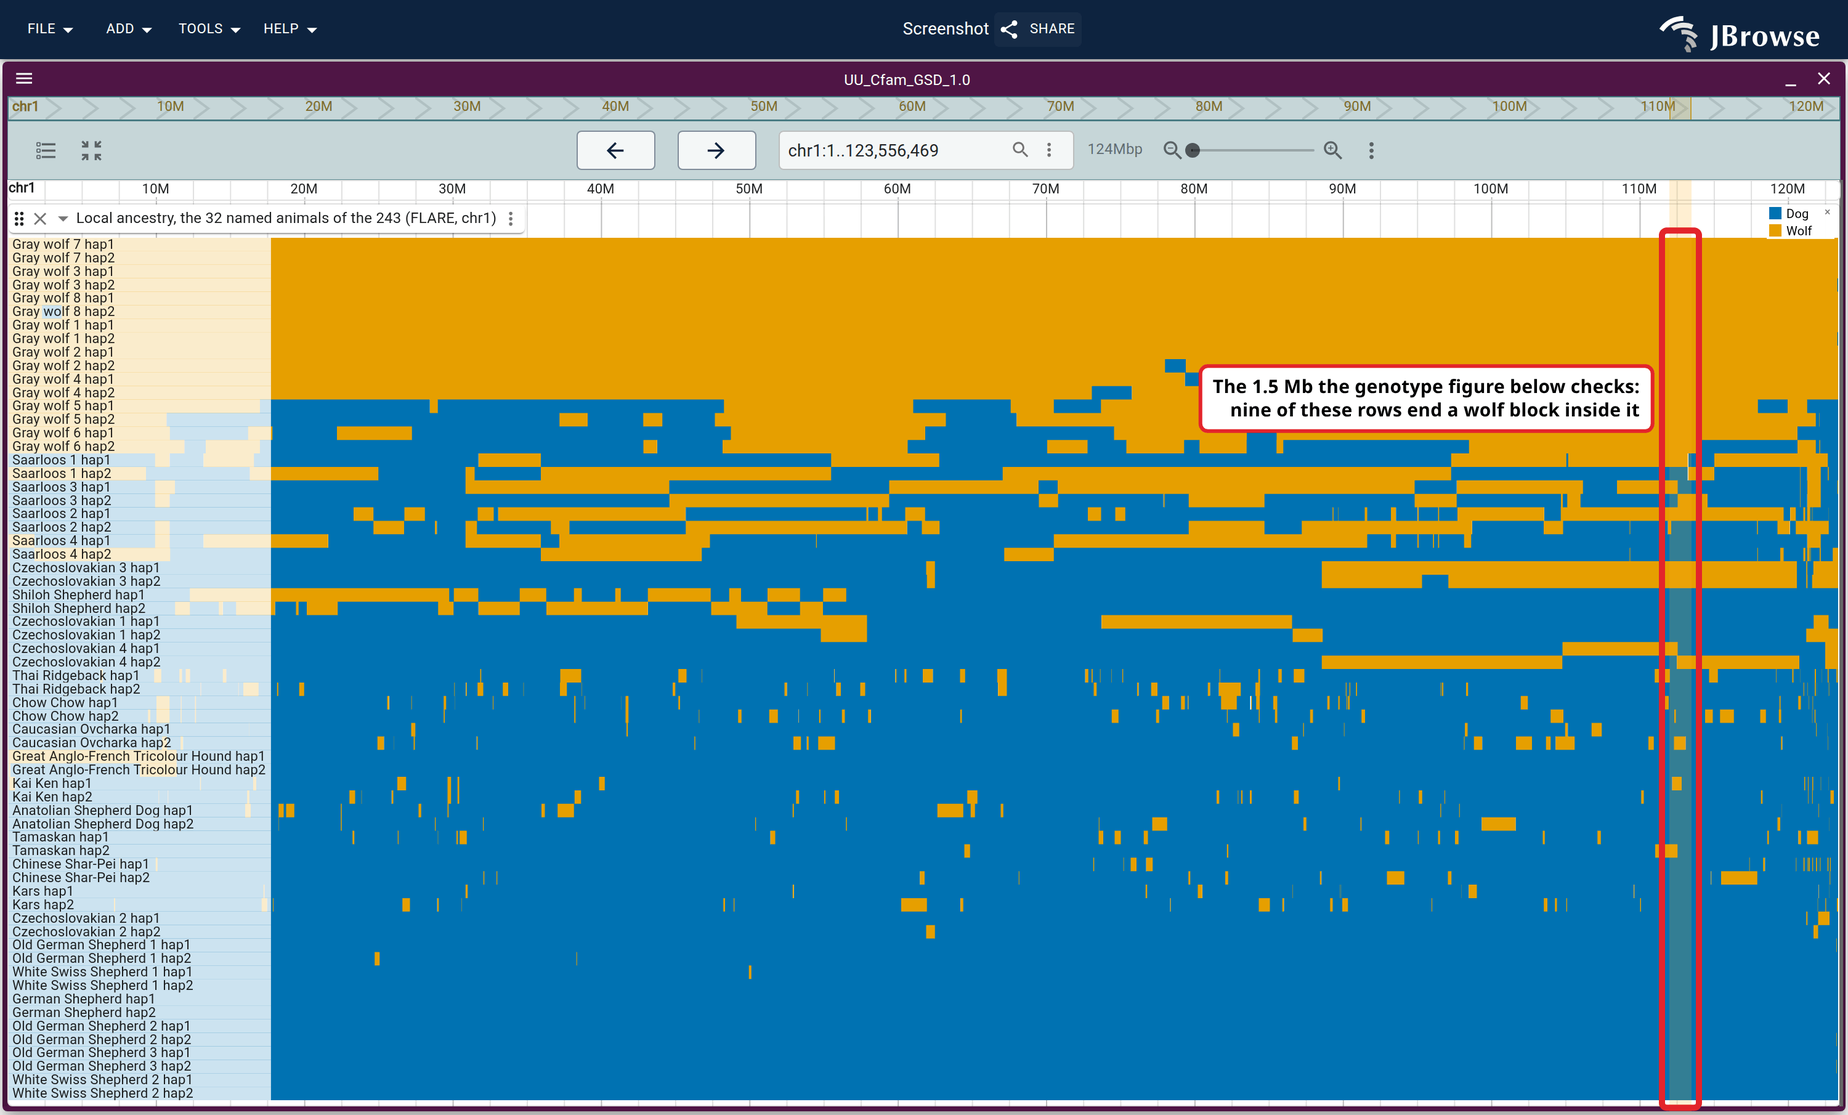
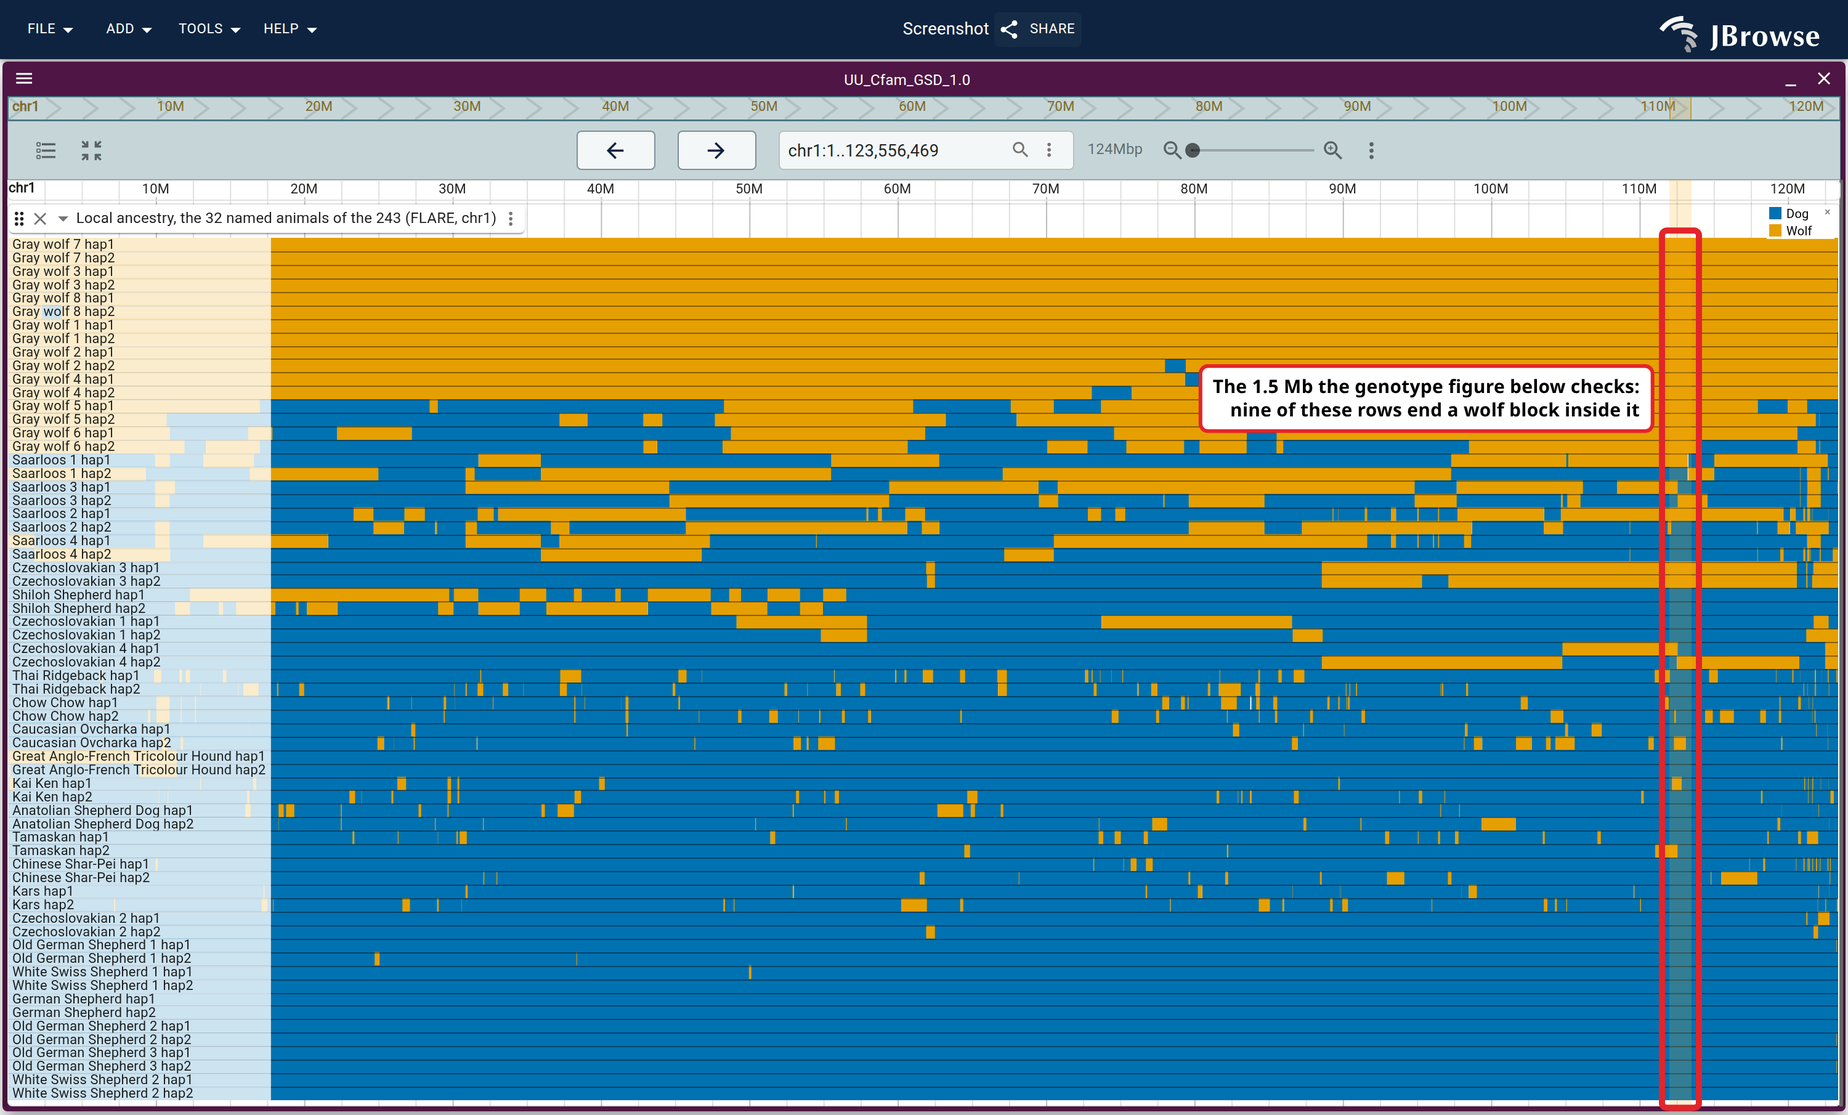
feat(multirow): add a showRowSeparators slot, and set it on the wolfdog painting
Review on dog10k-wolfdog-ancestry: "may benefit from showing row separators".
The reason the lines help there is general rather than particular to that
figure, so this is a display setting: rows are haplotypes, two per animal, and
most of that painting is one solid dog color running edge to edge -- so without
a boundary neither the row count nor which pair of rows belongs to which
sidebar name can be read off the image. A painting whose neighbouring rows
differ in color separates itself, which is why the slot is off by default.

Drawn as a theme-divider hairline on each row boundary, Math.round(y)+0.5 so
the 1px stroke lands on a device pixel instead of anti-aliasing across the two
rows it divides. MultiRowSeparatorLines is shared by the live display and the
SVG export so the two cannot drift, and both draw it before the tree sidebar,
whose opaque panel then covers the lines rather than the reverse. Modeled on
the multi-wiggle's MultiWiggleOverlayLines, which had the only implementation
of this in the repo.

Gated at MIN_SEPARATOR_ROW_PX (4px), in rowBand.ts next to MIN_DRAWN_ROW_PX for
the same reason that constant exists: rows are allowed below a pixel, and there
a 1px line is as thick as the row it borders, so the grid would become the
figure. The 486-row clustered figure at ~2.3px a row deliberately does not set
the slot. The track menu item stays clickable below the threshold -- taller
rows make the lines appear -- but carries a "Needs rows 4px or taller"
[…]

diff --git a/plugins/canvas/src/LinearMultiRowFeatureDisplay/components/MultiRowSeparatorLines.tsx b/plugins/canvas/src/LinearMultiRowFeatureDisplay/components/MultiRowSeparatorLines.tsx
@@ -1,0 +1,51 @@
+import { usePalette } from '@jbrowse/core/ui/PaletteContext'
+import { alpha } from '@jbrowse/core/ui/palette'
+import { getStrokeProps } from '@jbrowse/core/util'
+
+import { MIN_SEPARATOR_ROW_PX } from '../rendering/rowBand.ts'
+
+// Hairlines on the row boundaries, shared by the live display and the SVG
+// export so the two can't drift. Both callers render this inside an <svg>, so it
+// emits bare <line> fragments and takes the width to span explicitly (CSS-pixel
+// track width on screen vs view width on export). Modeled on the multi-wiggle's
+// MultiWiggleOverlayLines.
+export default function MultiRowSeparatorLines({
+  numRows,
+  rowHeight,
+  width,
+}: {
+  numRows: number
+  rowHeight: number
+  width: number
+}) {
+  const palette = usePalette()
+  if (numRows < 2 || rowHeight < MIN_SEPARATOR_ROW_PX) {
+    return null
+  }
+  return (
+    <>
+      {Array.from({ length: numRows - 1 }).map((_, idx) => {
+        // +0.5 lands the 1px stroke on a device-pixel boundary so it renders
+        // crisp instead of anti-aliased across the two rows it divides.
+        const y = Math.round(rowHeight * (idx + 1)) + 0.5
+        return (
+          <line
+            // eslint-disable-next-line @eslint-react/no-array-index-key -- fixed positional list, one separator per row boundary
+            key={`sep-${idx}`}
+            x1={0}
+            y1={y}
+            x2={width}
+            y2={y}
+            // blocks here are saturated fills edge to edge (rowProportion 1),
+            // so the line is dialed further up than the wiggle's xyplot rows,
+            // which sit on paper. getStrokeProps splits the alpha onto a
+            // stroke-opacity attribute so it survives the SVG export, which
+            // strips rgba() alpha.
+            {...getStrokeProps(alpha(palette.divider, 0.4))}
+            strokeWidth={1}
+          />
+        )
+      })}
+    </>
+  )
+}

diff --git a/plugins/canvas/src/LinearMultiRowFeatureDisplay/trackMenuItems.ts b/plugins/canvas/src/LinearMultiRowFeatureDisplay/trackMenuItems.ts
@@ -12,6 +12,8 @@ import PaletteIcon from '@mui/icons-material/Palette'
 import RestartAltIcon from '@mui/icons-material/RestartAlt'
 import VisibilityIcon from '@mui/icons-material/Visibility'
 
+import { MIN_SEPARATOR_ROW_PX } from './rendering/rowBand.ts'
+
 import type { LegendEntry } from './rendering/colorLegend.ts'
 import type { MultiRowSource } from './sourcesLogic.ts'
 import type { MenuItem } from '@jbrowse/core/ui'
@@ -52,6 +54,8 @@ function rowHeightPreset(rowHeight: number) {
 interface MultiRowMenuSelf extends IStateTreeNode {
   showTree: boolean
   showLegend: boolean
+  showRowSeparators: boolean
+  effectiveRowHeight: number
   colorLegend: LegendEntry[]
   hiddenCategories: readonly string[]
   showBranchLength: boolean
@@ -65,6 +69,7 @@ interface MultiRowMenuSelf extends IStateTreeNode {
   rowHeight: number
   setShowTree: (f: boolean) => void
   setShowLegend: (f: boolean) => void
+  setShowRowSeparators: (f: boolean) => void
   toggleCategory: (label: string) => void
   setHiddenCategories: (labels: string[]) => void
   setShowBranchLength: (f: boolean) => void
@@ -93,6 +98,19 @@ function showMenuItems(self: MultiRowMenuSelf): MenuItem[] {
           }),
         ]
       : []),
+    // stays clickable below the draw threshold (the toggle is a setting, and
+    // taller rows make it appear) but says so, rather than silently doing
+    // nothing on a dense painting
+    checkboxItem(
+      'Show row separators',
+      self.showRowSeparators,
+      () => {
+        self.setShowRowSeparators(!self.showRowSeparators)
+      },
+      self.effectiveRowHeight < MIN_SEPARATOR_ROW_PX
+        ? { subLabel: `Needs rows ${MIN_SEPARATOR_ROW_PX}px or taller` }
+        : undefined,
+    ),
     treeBranchLengthMenuItem(self),
   ]
 }

diff --git a/plugins/canvas/src/LinearMultiRowFeatureDisplay/components/LinearMultiRowFeatureDisplayComponent.tsx b/plugins/canvas/src/LinearMultiRowFeatureDisplay/components/LinearMultiRowFeatureDisplayComponent.tsx
@@ -19,6 +19,7 @@ import { MultiRowRendererFactory } from '../rendering/MultiRowRendererFactory.ts
 import MultiRowColorLegend from './MultiRowColorLegend.tsx'
 import MultiRowHoverHighlight from './MultiRowHoverHighlight.tsx'
 import MultiRowIndelGlyphOverlay from './MultiRowIndelGlyphOverlay.tsx'
+import MultiRowSeparatorLines from './MultiRowSeparatorLines.tsx'
 import MultiRowTooltip from './MultiRowTooltip.tsx'
 
 import type { LinearMultiRowFeatureDisplayModel } from '../model.ts'
@@ -39,6 +40,7 @@ const MultiRowCanvas = observer(function MultiRowCanvas({
     effectiveRowHeight,
     sidebarOffset,
     showLegend,
+    showRowSeparators,
     colorLegend,
     hiddenCategorySet,
   } = model
@@ -58,6 +60,27 @@ const MultiRowCanvas = observer(function MultiRowCanvas({
         }}
       />
       <MultiRowIndelGlyphOverlay model={model} />
+      {/* inline rather than portaled through FloatingSvgOverlay: the tree
+          sidebar is a later sibling and its panel is opaque, so drawing the
+          lines here is what stops them from running across the dendrogram */}
+      {showRowSeparators ? (
+        <svg
+          style={{
+            position: 'absolute',
+            top: 0,
+            left: 0,
+            width: view.trackWidthPx,
+            height,
+            pointerEvents: 'none',
+          }}
+        >
+          <MultiRowSeparatorLines
+            numRows={sources.length}
+            rowHeight={effectiveRowHeight}
+            width={view.trackWidthPx}
+          />
+        </svg>
+      ) : null}
       <MultiRowHoverHighlight model={model} />
       {/* Also the display's doneness signal for capture gates: `sources` is
           derived from fetched features (the partition values), so this subtree

diff --git a/plugins/canvas/src/LinearMultiRowFeatureDisplay/renderSvg.test.tsx b/plugins/canvas/src/LinearMultiRowFeatureDisplay/renderSvg.test.tsx
@@ -26,6 +26,7 @@ jest.mock('@jbrowse/core/util', () => ({
   measureText: (s: string, fontSize = 10) => s.length * fontSize * 0.6,
   max: (arr: number[], d = 0) => (arr.length ? Math.max(...arr) : d),
   getFillProps: (color: string) => ({ fill: color }),
+  getStrokeProps: (color: string) => ({ stroke: color }),
 }))
 jest.mock('mobx', () => ({
   ...jest.requireActual('mobx'),
@@ -105,6 +106,7 @@ function makeModel(overrides: Partial<RenderSvgModel> = {}): RenderSvgModel {
     showTree: false,
     hierarchy: undefined,
     showLegend: false,
+    showRowSeparators: false,
     colorLegend: [],
     hiddenCategorySet: new Set<string>(),
     ...overrides,
@@ -150,6 +152,26 @@ describe('LinearMultiRowFeatureDisplay renderSvg', () => {
   it('omits the dendrogram when the tree is hidden', async () => {
     const html = renderResult(await renderSvg(makeModel(), {}))
     expect(html).not.toContain('#0008')
+  })
+
+  it('draws a separator on each row boundary when showRowSeparators is set', async () => {
+    const html = renderResult(
+      await renderSvg(makeModel({ showRowSeparators: true }), {}),
+    )
+    // two 50px rows: one line, on the boundary between them, half-pixel offset
+    // so the 1px stroke lands on a device pixel
+    expect(html).toContain('y1="50.5"')
+    expect(html.match(/<line /g)?.length).toBe(1)
+  })
+
+  it('omits separators when rows are below the drawable threshold', async () => {
+    const html = renderResult(
+      await renderSvg(
+        makeModel({ showRowSeparators: true, effectiveRowHeight: 2 }),
+        {},
+      ),
+    )
+    expect(html).not.toContain('<line ')
   })
 
   it('renders the error box instead of the body when model.error is set', async () => {

diff --git a/plugins/canvas/src/LinearMultiRowFeatureDisplay/trackMenuItems.test.ts b/plugins/canvas/src/LinearMultiRowFeatureDisplay/trackMenuItems.test.ts
@@ -15,6 +15,8 @@ function makeSelf(
   return {
     showTree: true,
     showLegend: true,
+    showRowSeparators: false,
+    effectiveRowHeight: 14,
     colorLegend: [],
     hiddenCategories: [],
     showBranchLength: true,
@@ -25,6 +27,7 @@ function makeSelf(
     rowHeight: 0,
     setShowTree: () => {},
     setShowLegend: () => {},
+    setShowRowSeparators: () => {},
     toggleCategory: () => {},
     setHiddenCategories: () => {},
     setShowBranchLength: () => {},
@@ -80,8 +83,25 @@ describe('multi-row track menu', () => {
     expect(items.every(i => 'icon' in i && i.icon)).toBe(true)
     expect(labels(subMenuOf(items, 'Show...'))).toEqual([
       'Show sidebar with tree and labels',
+      'Show row separators',
       'Tree branch lengths',
     ])
+  })
+
+  // the toggle stays clickable when rows are too thin to draw a separator on
+  // (taller rows make it appear), so the row height is the only thing that says
+  // why nothing happened
+  it('explains the row separator toggle when rows are below the draw threshold', () => {
+    const sub = (rowHeight: number) =>
+      subMenuOf(
+        buildMultiRowTrackMenuItems(makeSelf({ effectiveRowHeight: rowHeight })),
+        'Show...',
+      ).find(i => 'label' in i && i.label === 'Show row separators')
+
+    expect(sub(2)).toMatchObject({
+      subLabel: 'Needs rows 4px or taller',
+    })
+    expect(sub(14)).not.toHaveProperty('subLabel')
   })
 
   it('keeps the tree controls in one place, not one copy per submenu', () => {

diff --git a/plugins/canvas/src/LinearMultiRowFeatureDisplay/configSchema.ts b/plugins/canvas/src/LinearMultiRowFeatureDisplay/configSchema.ts
@@ -170,6 +170,25 @@ export default function configSchemaF(pluginManager: PluginManager) {
       },
       /**
        * #slot
+       * Draw a hairline between adjacent rows. Off by default: a painting whose
+       * neighbouring rows differ in color already separates itself, and the line
+       * only earns its pixel where they don't — a run of same-colored rows (an
+       * ancestry painting where most animals are one color, a cohort sorted so
+       * like sits next to like) reads as one block without it, and the row count
+       * can't be recovered by eye.
+       *
+       * Only drawn once rows are at least 4px tall. Below
+       * that the line is as thick as the row it borders, so a dense painting
+       * would be turned into a grid of hairlines with a little color between
+       * them.
+       */
+      showRowSeparators: {
+        type: 'boolean',
+        defaultValue: false,
+        description: 'draw separator lines between rows',
+      },
+      /**
+       * #slot
        * Show the categorical color key (swatch + label per distinct per-feature
        * color). Only appears in per-feature color mode; in per-row palette /
        * sampleColorMap mode the sidebar labels are already the key, so nothing

diff --git a/plugins/canvas/src/LinearMultiRowFeatureDisplay/renderSvg.tsx b/plugins/canvas/src/LinearMultiRowFeatureDisplay/renderSvg.tsx
@@ -7,6 +7,7 @@ import {
 import { SvgTreeSidebar } from '@jbrowse/tree-sidebar'
 
 import MultiRowColorLegend from './components/MultiRowColorLegend.tsx'
+import MultiRowSeparatorLines from './components/MultiRowSeparatorLines.tsx'
 import { drawMultiRowBlocks } from './rendering/drawMultiRowBlocks.ts'
 import { drawMultiRowIndelGlyphs } from './rendering/drawMultiRowIndelGlyphs.ts'
 
@@ -46,6 +47,7 @@ export interface RenderSvgModel extends SvgExportable {
   // color scheme, which IS the clustering matrix here.
   clusterProvenance?: ClusterProvenance
   showLegend: boolean
+  showRowSeparators: boolean
   colorLegend: LegendEntry[]
   hiddenCategorySet: ReadonlySet<string>
 }
@@ -95,6 +97,15 @@ function MultiRowSvgBody({
           }}
         />
       </SvgClipRect>
+      {/* before the sidebar, matching the live display's stacking: the tree
+          panel paints over the lines rather than the lines over the tree */}
+      {self.showRowSeparators ? (
+        <MultiRowSeparatorLines
+          numRows={self.sources.length}
+          rowHeight={self.effectiveRowHeight}
+          width={canvasWidth}
+        />
+      ) : null}
       <SvgTreeSidebar
         showTree={self.showTree}
         hierarchy={self.hierarchy}

diff --git a/website/scripts/specs/dog10k.ts b/website/scripts/specs/dog10k.ts
@@ -395,6 +395,13 @@ export const dog10kSpecs: ScreenshotSpec[] = [
           // 64 rows. Above the 6px a row label needs, which is the whole reason
           // this figure exists next to the 486-row one below it.
           height: 700,
+          // Rows are haplotypes, two per animal, and most of this painting is
+          // one dog color running edge to edge — so without a line the row
+          // count cannot be read off the image, and neither can which pair of
+          // rows belongs to which name in the sidebar. The clustered figure
+          // below is at ~2.3px a row and deliberately does NOT set this (below
+          // MIN_SEPARATOR_ROW_PX the lines would be the figure).
+          showRowSeparators: true,
         },
       ],
     }),

diff --git a/plugins/canvas/src/LinearMultiRowFeatureDisplay/model.ts b/plugins/canvas/src/LinearMultiRowFeatureDisplay/model.ts
@@ -203,6 +203,12 @@ export default function stateModelFactory(
       /**
        * #getter
        */
+      get showRowSeparators(): boolean {
+        return getConf(self, 'showRowSeparators')
+      },
+      /**
+       * #getter
+       */
       get showTree(): boolean {
         return getConf(self, 'showTree')
       },
@@ -678,6 +684,12 @@ export default function stateModelFactory(
        */
       setShowLegend(f: boolean) {
         setConf(self, 'showLegend', f)
+      },
+      /**
+       * #action
+       */
+      setShowRowSeparators(f: boolean) {
+        setConf(self, 'showRowSeparators', f)
       },
       /**
        * #action

diff --git a/plugins/canvas/src/LinearMultiRowFeatureDisplay/rendering/rowBand.ts b/plugins/canvas/src/LinearMultiRowFeatureDisplay/rendering/rowBand.ts
@@ -32,6 +32,12 @@ export { MIN_DRAWN_ROW_PX }
 // which stays sub-pixel so that `nrow * rowHeight` still fits the display.
 export { drawnRowHeightPx as drawnRowHeight }
 
+// Smallest row height an inter-row separator is drawn at (MultiRowSeparatorLines
+// and the track-menu toggle that describes it). A 1px line between rows that are
+// themselves 2px tall is half the picture, and rows are allowed below a pixel
+// (above) — at that density the grid would be the figure.
+export const MIN_SEPARATOR_ROW_PX = 4
+
 export function rowBand(rowHeight: number, rowProportion: number) {
   return {
     height: drawnRowHeightPx(rowHeight, rowProportion),

diff --git a/products/jbrowse-cli/src/commands/validate/configManifest.generated.ts b/products/jbrowse-cli/src/commands/validate/configManifest.generated.ts
@@ -2876,6 +2876,10 @@ export const configManifest: ConfigManifest = {
           "type": "(JexlString | number)"
         },
         {
+          "name": "showRowSeparators",
+          "type": "(JexlString | boolean)"
+        },
+        {
           "name": "showLegend",
           "type": "(JexlString | boolean)"
         },

diff --git a/website/docs/config/LinearMultiRowFeatureDisplay.md b/website/docs/config/LinearMultiRowFeatureDisplay.md
@@ -97,6 +97,7 @@ whole surface.
 | <span id="slot-roworder">**rowOrder**</span><br>`stringArray` = <code>[]</code> | Optional explicit row order. Rows listed here come first in this order; any remaining partition values are appended in sorted order. Empty = fully auto (sorted). |
 | <span id="slot-rowheight">**rowHeight**</span><br>[`number`](/docs/config_guides/slot_types#number) = <code>0</code> | Fixed height in pixels of each row. `0` (the default) auto-fits: all rows stretch to fill the display height, so adding rows shrinks them instead of growing the track — a dense, fully-visible painting. |
 | <span id="slot-rowproportion">**rowProportion**</span><br>[`number`](/docs/config_guides/slot_types#number) = <code>1</code> | Fraction of the row height each block fills (1 = full, leaving no gap between rows).<br>_advanced_ |
+| <span id="slot-showrowseparators">**showRowSeparators**</span><br>[`boolean`](/docs/config_guides/slot_types#boolean) = <code>false</code> | Draw a hairline between adjacent rows. Off by default: a painting whose neighbouring rows differ in color already separates itself, and the line only earns its pixel where they don't — a run of same-colored rows (an ancestry painting where most animals are one color, a cohort sorted so like sits next to like) reads as one block without it, and the row count can't be recovered by eye.<br><br>Only drawn once rows are at least 4px tall. Below that the line is as thick as the row it borders, so a dense painting would be turned into a grid of hairlines with a little color between them. |
 | <span id="slot-showlegend">**showLegend**</span><br>[`boolean`](/docs/config_guides/slot_types#boolean) = <code>true</code> | Show the categorical color key (swatch + label per distinct per-feature color). Only appears in per-feature color mode; in per-row palette / sampleColorMap mode the sidebar labels are already the key, so nothing shows regardless. The entries come from `legend` when set, else are auto-derived from named, categorical features (e.g. chromHMM states). |
 | <span id="slot-legend">**legend**</span><br>[`frozen`](/docs/config_guides/slot_types#frozen) = <code>[]</code> | Explicit color key: an array of `{ label, color }`. Use this when the category is encoded only in the block color (e.g. an `itemRgb` ancestry painting) so there's no feature attribute to auto-derive a legend from — the mapping is a semantic the data doesn't carry, so the config declares it. `color` is any CSS color and should match what `color` paints. Overrides the auto-derived legend when non-empty.<br><span class="cell-more"><button type="button" class="cell-more-trigger">example</button><dialog class="cell-dialog"><form method="dialog"><button class="cell-dialog-close" aria-label="Close">✕</button></form><pre><code>legend: [&#10;&#160;&#160;{ label: 'Maternal', color: 'rgb(227,26,28)' },&#10;&#160;&#160;{ label: 'Paternal', color: 'rgb(31,120,180)' },&#10;&#160;&#160;{ label: 'Unknown', color: 'rgb(170,170,170)' },&#10;]</code></pre></dialog></span> |
 | <span id="slot-rowgroups">**rowGroups**</span><br>[`frozen`](/docs/config_guides/slot_types#frozen) = <code>[]</code> | Group and mark rows: an array of `{ match, group, color }` where `match` is a regex tested against the row name (the partition value). The first matching entry wins, its `color` becomes that row's sidebar swatch, and matched rows are pulled into contiguous blocks in the order the entries are declared, ahead of everything unmatched.<br><br>It groups as well as marks because marking alone does not survive a large cohort: rows spread through a couple of thousand sorted neighbours land as a few specks that read as noise, where the same rows in one block read as a group whose colors can be compared against the rest. Within a block the incoming order is kept, so a `sortRowsBy` still orders each block by the value it sorted on.<br><br>Use this when the row identity encodes a grouping the painting does not — cohort IDs whose prefix names a population, say — and the cohort is far too large to enumerate in `layout`. The color tints the swatch only, never the blocks, so it composes with an `itemRgb` painting instead of overwriting it.<br><br>**Mark the small group, not the big one.** Rows matching nothing get no swatch, and that is the point: below a pixel a row the swatch is floored to a pixel so it stays visible, which makes every mark taller than the row it points at. The stripe is then a marker, not a proportional encoding — 307 of 1,987 rows (15%) came out as 48% of the stripe's ink, which reads as a majority. Marking 63 wolves out of the same 1,987 costs 10% of the ink and reads correctly, as sparse ticks. Keep the matched groups to the ones a reader is hunting for.<br><span class="cell-more"><button type="button" class="cell-more-trigger">example</button><dialog class="cell-dialog"><form method="dialog"><button class="cell-dialog-close" aria-label="Close">✕</button></form><pre><code>rowGroups: [&#10;&#160;&#160;{ match: '^CLUP', group: 'Wolf', color: 'rgb(27,120,55)' },&#10;&#160;&#160;{ match: '^CLAT', group: 'Coyote', color: 'rgb(224,130,20)' },&#10;]</code></pre></dialog></span> |
